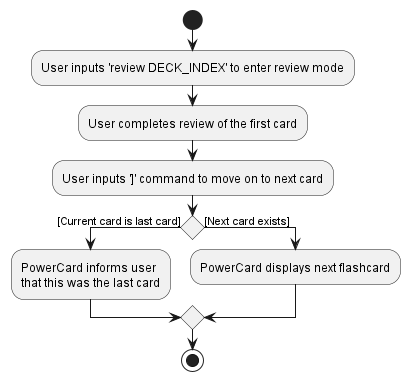
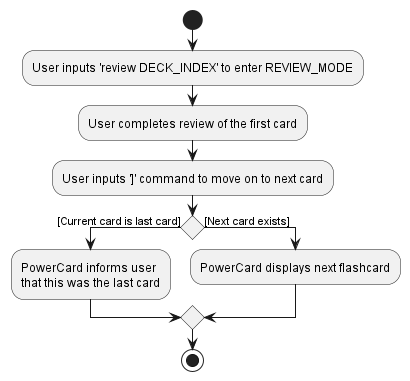
Update Review Features

Changed region(s): [[0.0585, 0.1155, 0.9073, 0.231]]

diff --git a/docs/DeveloperGuide.md b/docs/DeveloperGuide.md
@@ -252,23 +252,47 @@ The following activity diagram summarizes the action taken when `deleteCard` is 
 
 ![DeleteCardActivityDiagram](images/DeleteCardActivityDiagram.png)
 
-### Implementation of Review Mode Features
+### Implementation of `REVIEW_MODE` Features
+A user can enter into the `REVIEW_MODE` to test their knowledge on a deck of cards and optionally filter that deck by the tags of the cards.
+
+The following activity diagram is a summary of the typical review workflow a user might carry out:
+
+![TypicalReviewActivityDiagram](images/TypicalReviewActivityDiagram.png)
+
+
+<div markdown="span" class="alert alert-info">:information_source: **Note:** 
+A user does not need to follow these steps exactly (e.g. the user does not necessarily need to keep going forward to the next card, they can go back to the previous question.)
+</div>
+
+
+### `REVIEW_MODE` Implementation Details
+
 A `Review` object is stored within the `Model` and represents the current review. 
-- If the current review object is `null`, it indicates that there is currently no ongoing review, thus the application in the Main mode.
-- To construct a `Review` object, the `Model` will pass in a list of cards to be reviewed (as filtered by `CardInDeckPredicate` and `CardHasTagPredicate`), the `Deck` to be reviewed and an integer representing the review limit set by user if any. 
+- If the current review object is `null`, it indicates that there is currently no ongoing review, thus the application is in the `MAIN_MODE`.
+- To construct a `Review` object, the `Model` will pass in:
+  - a list of cards to be reviewed (as filtered by `CardInDeckPredicate` and `CardHasTagPredicate`), 
+  - the `Deck` to be reviewed and 
+  - an integer representing the review limit set by user (-1 if no limit set). 
 
 Within the `Review` object, the list of cards to be reviewed are stored in a `UniqueCardList`.
 - Note that this list of cards are not the same card objects as those in the `MasterDeck` and hence any changes to be made on a card during review will need to be made on the equivalent cards in both the `MasterDeck` and the current review's `UniqueCardList`. 
 - The `UniqueCardList` is used to construct the `ObservableList` and `FilteredList` of cards which is passed upwards to the UI to display the current card under review. 
 
 Each time a `Review` object is constructed, a list of integers representing a shuffled order of indices of the cards is created.
-- A pointer representing the current card index is used to iterate across this list of shuffled indices to get the current card under review from the `UniqueCardList`.
+- A pointer representing the current card index is used to iterate across this list of shuffled indices to get the current `Card` under review from the `UniqueCardList`.
 - The pointer is incremented when the user moves on to the next card and decremented when the user moves back to the previous card
 
 Within the `Review` object, there is an `ObservableList` of a `Pair` of strings representing the following statistics of the current review: deck name, current card number, current tag count for each difficulty and the navigation guide. 
 - The statistics are displayed on the left panel during the review mode.
 - In a `Pair` of strings, the first string represents the title of the statistic while the second contains information about that respective statistic. (e.g. String 1: "Deck Name", String 2: "Chemistry")
 - These statistics are constantly updated whenever a command executed (e.g. tag current card with new difficulty) changes any of the above statistics of the review.
+
+The following is a sequence diagram shows a review is started:
+
+![ReviewSequenceDiagram](images/ReviewSequenceDiagram.png)
+
+Notice that the UI calls the methods `getReviewStatsList()` and `getReviewCardList()` in `Logic` to return an `ObservableList` of the review statistics and current card respectively. 
+Any changes made to these `ObservableLists` during the review will be listened to and updated visually on the UI.
 
 #### nextCard Feature
 `Review#goToNextCard()` is the operation that allows the user to move to the next card during a review.
